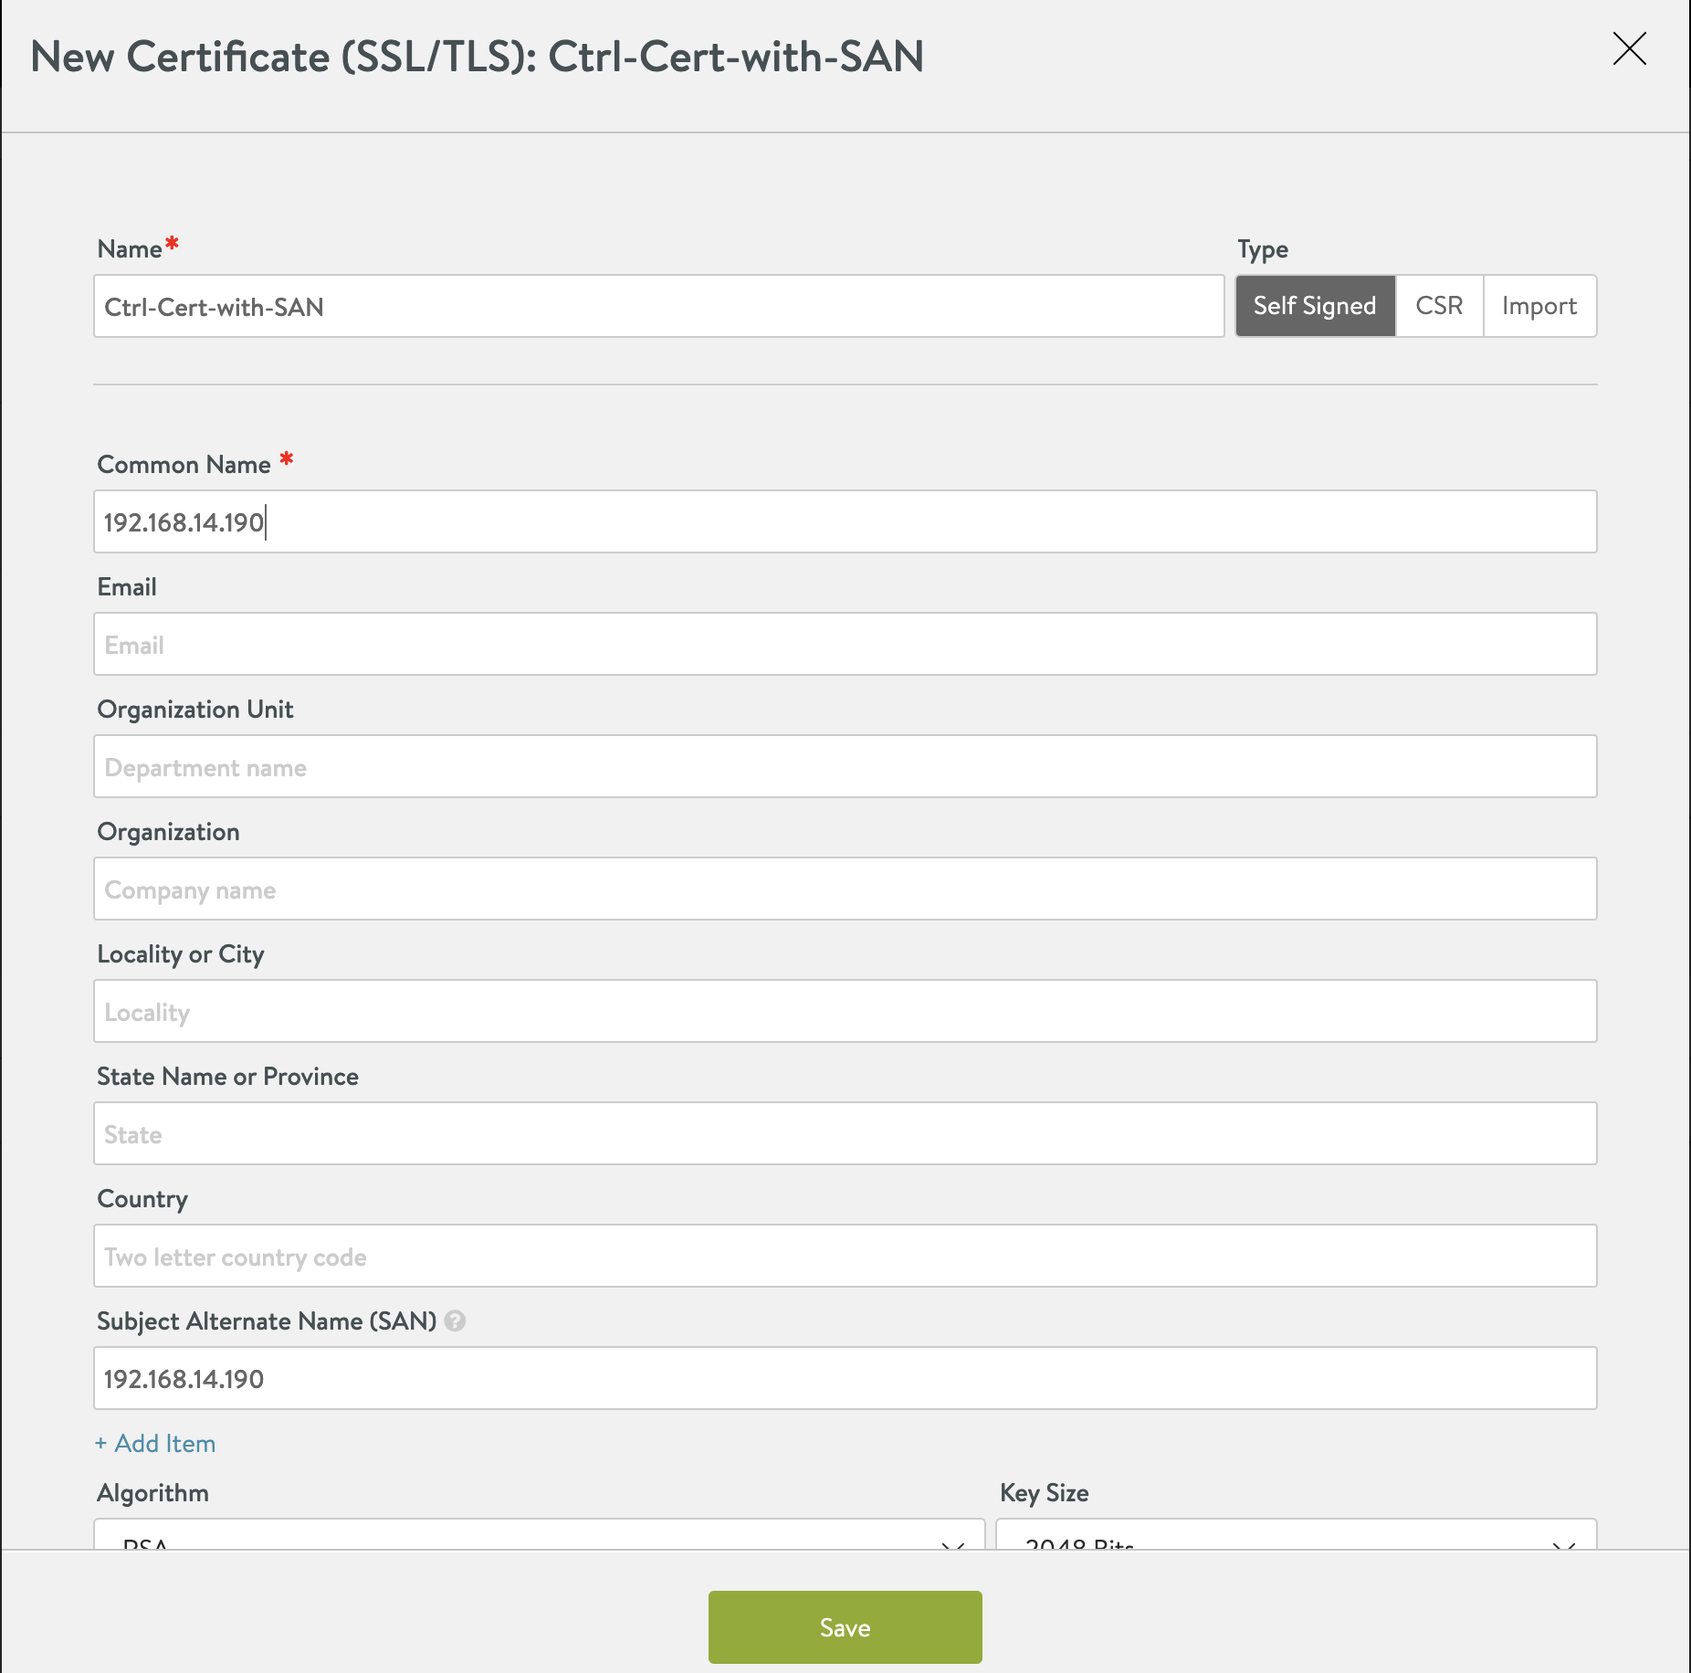
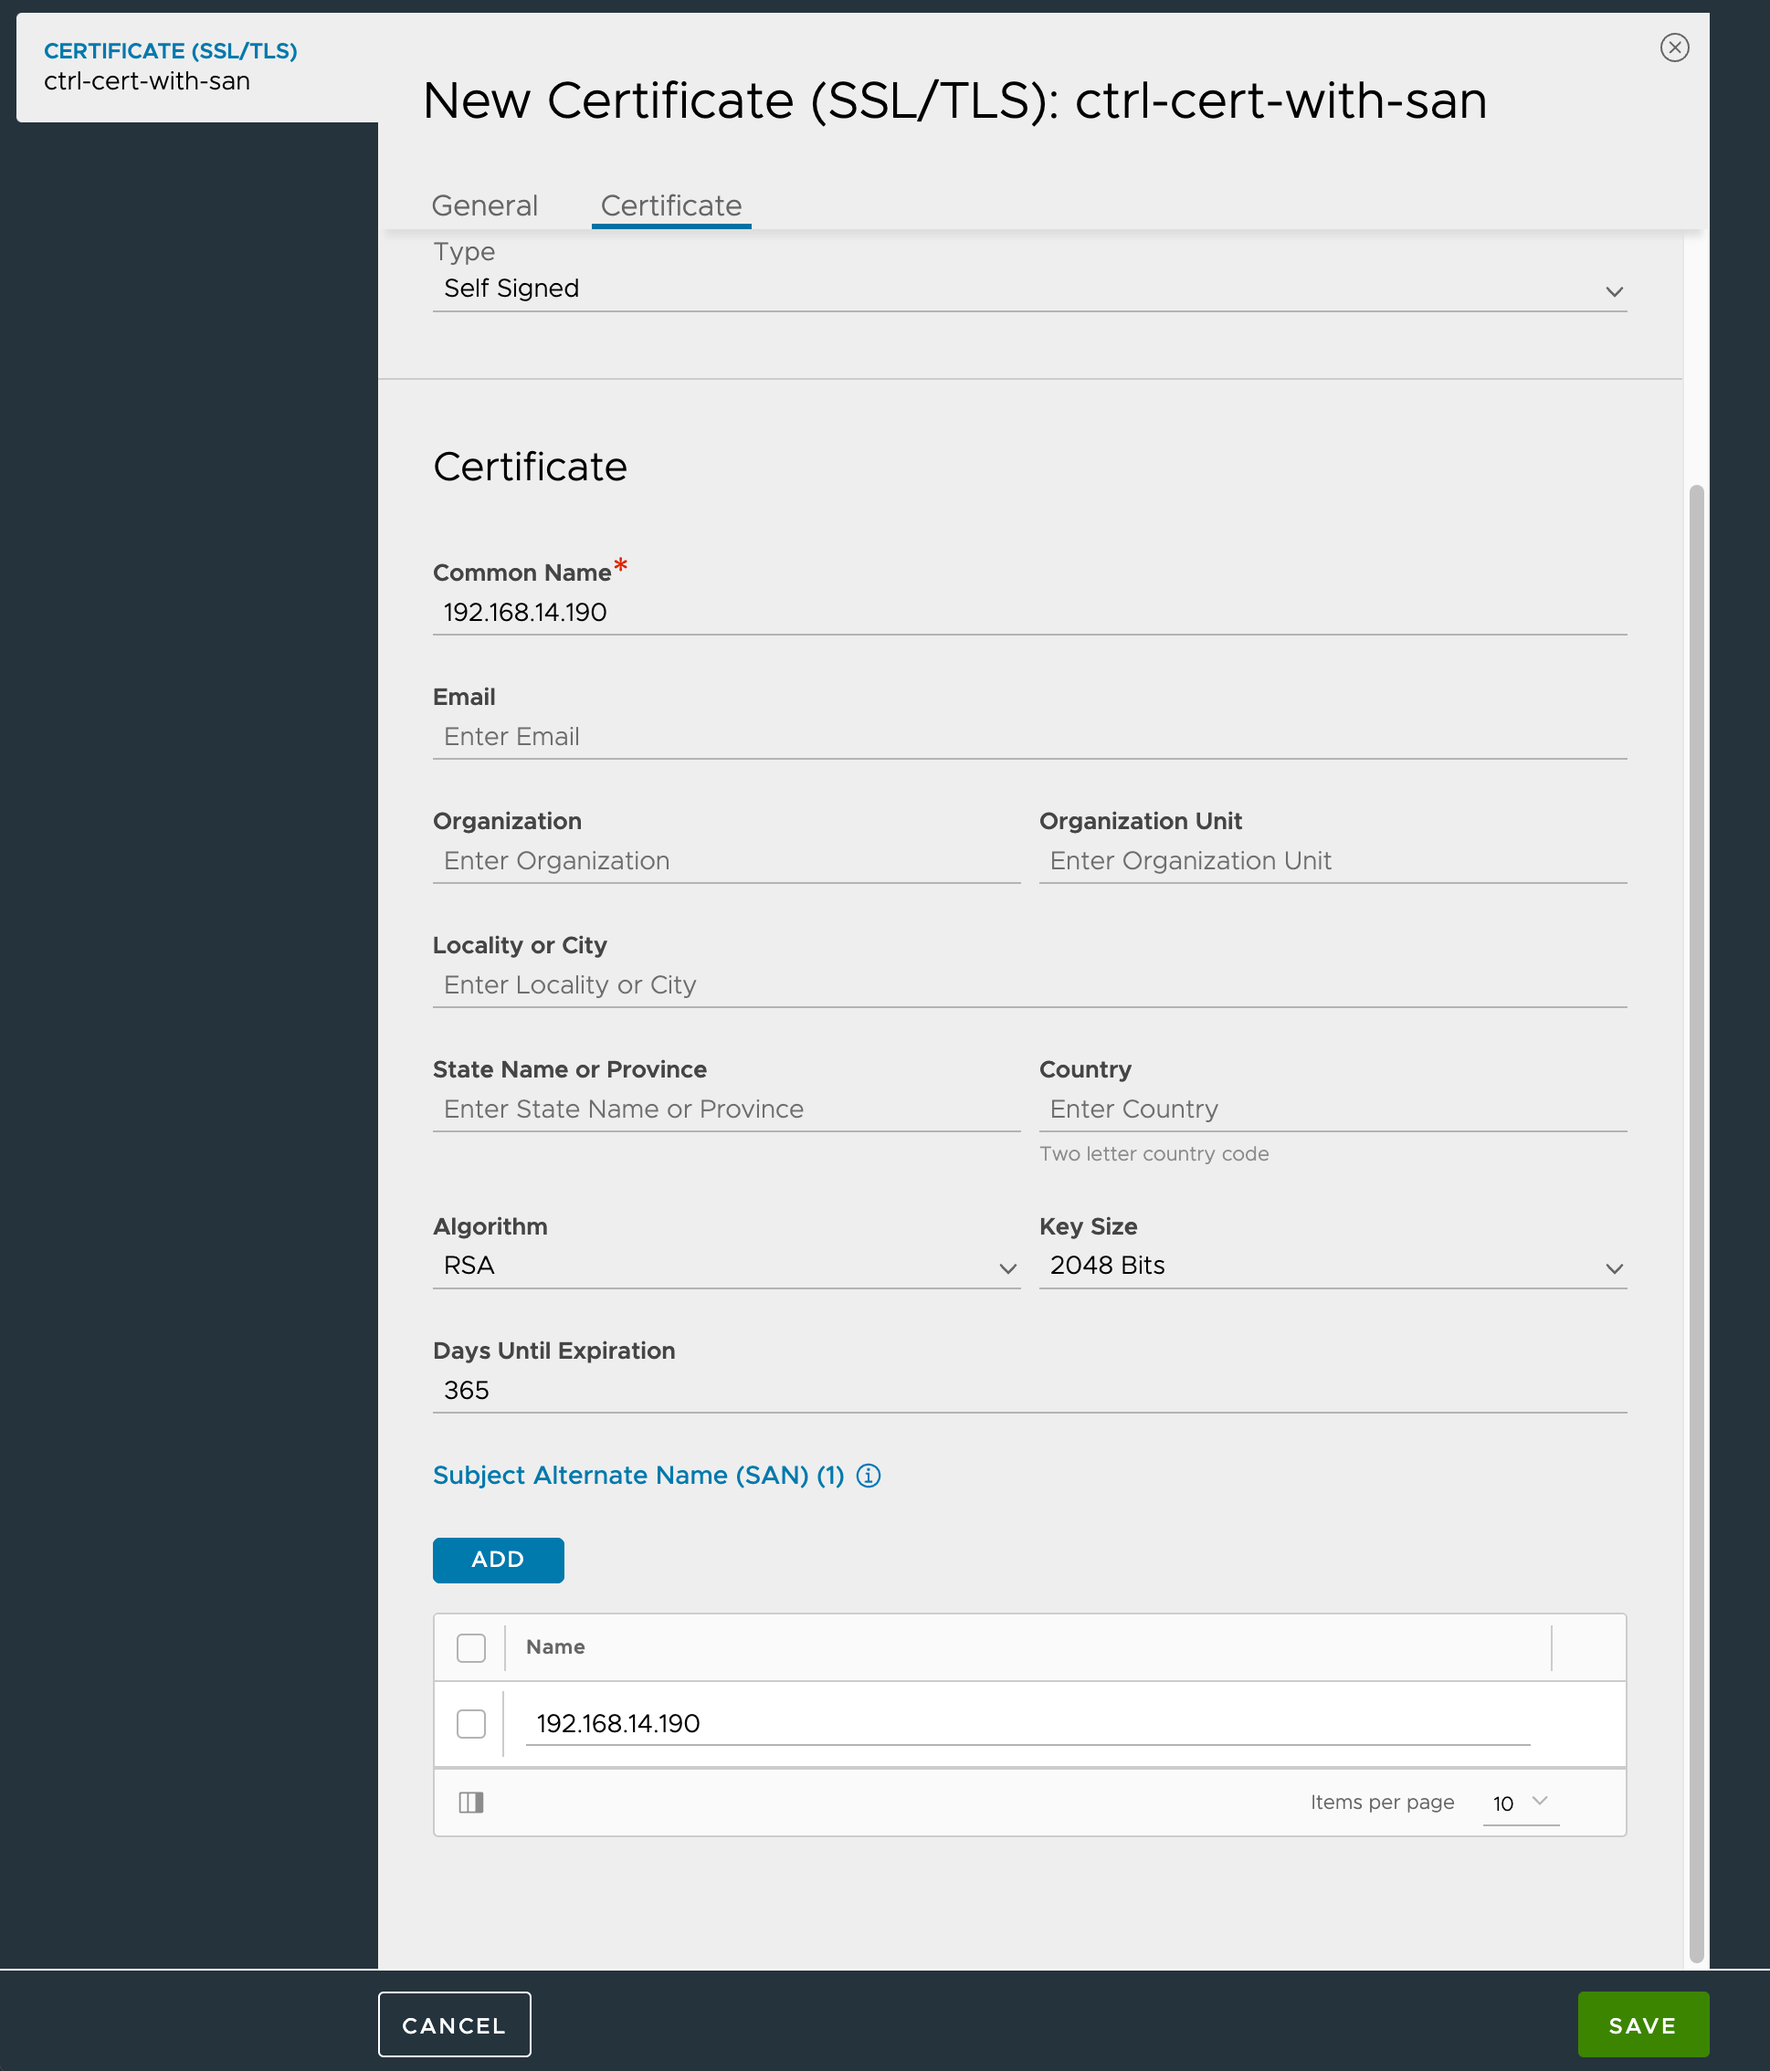
Updates docs for AVI 22.1.4

diff --git a/docs/avi/setup_avi_ctrl.md b/docs/avi/setup_avi_ctrl.md
@@ -1,13 +1,13 @@
 # NSX-ALB (AVI) Controller Setup
 
-This guide includes a comprehensive set of steps to set up a NSX-ALB (AVI) Controller in a vSphere 6.7 or 7 environment to be used by TKG `v1.5.0+`
+This guide includes a comprehensive set of steps to set up a NSX-ALB (AVI) Controller in a vSphere 6.7 or 7 environment to be used by TKG `v1.6.0+`
 
 ## 1. Get Binaries
 
 To download the Controller binaries we can go to the same location where we download the rest of the TKG components [here](https://www.vmware.com/go/get-tkg).
 Look for `VMware NSX Advanced Load Balancer`, `GO TO DOWNLOADS` and `DOWNLOAD NOW`.
 That will take you to the Partner Connect Portal.  If don't already have an active session, you will need to log-in.
-You will be redirected to the AVI Portal. Once there go to Downloads and download current version (`20.1.7` when this guide was updated last). Choose the VMware Controller OVA.
+You will be redirected to the AVI Portal. Once there go to Downloads and download current TKG-validated controller (`21.1.4-2p3` when this guide was updated last). Choose the VMware Controller OVA.  Also download the latest patch for that controller version (`21.1.4-2p7` when this guide was updated last).
 
 ## 2. Choose Topology
 
@@ -83,7 +83,7 @@ Choose the admin username and password. Email is optional.
 
 <img src="avi-admin-user.png" width="400"><br>
 
-Choose the right DNS resolver.  Choose Search Domain (optional, if you do not use FQDN references for internal components) for your environment. Also choose a passphrase for the backups.
+Provide Passphrase for backups.  Choose the right DNS resolver for your environment.  Choose Search Domain (optional, if you do not use FQDN references for internal components) for your environment.
 
 <img src="avi-dns.png" width="800"><br>
 
@@ -95,24 +95,32 @@ In the Multi-Tenant screen leave all the defaults:
 
 <img src="avi-tenant.png" width="800"><br>
 
-Check the `Select Cloud After` checkbox at the bottom-right of the screen. Click `Save`.
+Check the `Setup Cloud After` checkbox at the bottom-right of the screen. Click `Save`.
 
+You should be taken to the `Infrastructure > Clouds` list page.  If you see an error message indicating `Controller Faults` related to licensing, you can `x` out of the message safely for now.  We will take care of that later on.
 
-### 4.2 Orchestrator setup
-If you did not check the checkbox in the previous screen go to `Infrastructure > Clouds`. Then edit the `Default-Cloud`:
+### 4.2 Cloud setup
 
-Choose Orchestrator
-- Select VMware.
+>Note: For some reason if you got lost, then go to `Infrastructure > Clouds`.
 
-<img src="avi-orchestrator.png" width="800"><br>
+Now choose the `Convert Cloud Type` icon on the `Default-Cloud` item in the list.
+
+Choose Cloud Type
+- Select `VMware vCenter/vSphere ESX` and then `YES, CONTINUE` button
+
+<img src="avi-cloud-type.png" width="800"><br>
 
 Provide vCenter Credentials
 - Enter vSphere FQDN and credentials.
 - Select Write permissions.
 
+Click Next button.
+
 <img src="avi-vc.png" width="800"><br>
 
 Choose Datacenter. You can leave all checkboxes unchecked for Static IP Address management and default settings.
+
+Click Next button.
 
 <img src="avi-datacenter.png" width="800"><br>
 
@@ -131,11 +139,11 @@ Click `Save`.
 
 ### 4.3 Set Scope for Service Engines to Specific vSphere Clusters
 
-The NSX ALB Controller will create service engines on vSphere clusters for which it has permissions.  In the event you are using an administrative vSphere user account with multiple clustesr, that means these service engines could be created anywhere and perhaps different SEs in a single SE Group will be created in different clusters.  
+The NSX ALB Controller will create service engines on vSphere clusters for which it has permissions.  In the event you are using an administrative vSphere user account with multiple clusters, that means these service engines could be created anywhere and perhaps different SEs in a single SE Group will be created in different clusters.  
 
 You can set the scope for a given SE Group to constrain the SE creation to specific clusters or hosts.  This may particularly be useful if a single vSphere cluster is designated to support Tanzu.
 
-Go to `Infrastructure > Service Engine Group`. Then edit the `Default-Cloud`:
+Go to `Infrastructure > Cloud Resources > Service Engine Group`. Then edit the `Default-Cloud`.
 
 Choose `Advanced` tab of the resulting dialog.
 
@@ -145,11 +153,10 @@ In the `Host & Data Store Scope` section, select your desired vSphere cluster.
 
 Click `Save`.
 
-
 ### 4.4 Upgrade Controller to latest patch (Optional)
-To get the latest UI based capabilities is best to upgrade to the latest patch of the release you are using: (`20.1.7-2p8` when this guide was updated last).
+To get the latest UI based capabilities is best to upgrade to the latest patch of the release you are using: (`21.1.4-2p7` when this guide was updated last).
 
-Go to `Administration > Controller > Software`. Click on `Upload from Computer` and select the avi-patch `pkg` file.
+Go to `Administration > Controller > Software`. Click on `Upload from Computer` and select the avi-patch `pkg` file.  Wait until the pkg has completed uploading.
 
 <img src="avi-software.png" width="800"><br>
 
@@ -157,14 +164,14 @@ Go to `Administration > Controller > System Update`. Click on the checkbox next 
 
 <img src="avi-systemupdate.png" width="800"><br>
 
-On the pop-up window, leave settings as they are and click `Continue`. Wait for the upgrade to finish. The UI will eventually become inresponsive and you will have to log-in again.
+On the pop-up window, leave settings as they are and click `Continue`. You will be prompted to take a backup.  Click `Confirm` button to continue without backup. You will be taken back to the original page and then a progress bar will display.  Wait for the upgrade to finish. The UI will eventually become inresponsive.  You may get an error message, which you can safely click through.  You will have to log-in again.
 
 ### 4.5 Switch to Essentials Tier (Optional)
-Go to `Administration > Settings > Licensing`. Click on the crank wheel next to the `Licensing` title. Select `Essentials License`. Click `Save`. Click `Continue`.
+Go to `Administration > Settings > Licensing`. Click on the crank wheel next to the `Licensing` title. Select `Essentials License`. Click `Save`. Click `x` at top right corner.  Then Click `Continue`.
 
 <img src="avi-essentials.png" width="800"><br>
 
-In Essentials Tier we don't have `auto-gateway` so we need to create a Default Gateway route to ensure traffic can flow from SEs to pods and back to the clients. Go to `Infrastructure > Routing` and create a `Static Route`, with:
+In Essentials Tier we don't have `auto-gateway` so we need to create a Default Gateway route to ensure traffic can flow from SEs to pods and back to the clients. Go to `Infrastructure > Cloud Resources > Routing` and create a `Static Route`, with:
 - Gateway Subnet: `0.0.0.0/0`
 - Next Hop: The Gateway of the VIP Network you are going to use
 
@@ -199,7 +206,7 @@ Click `Save`.
 
 
 ### 4.9. Create VIP Pool (Only for 2 network configuration, skip for flat network)
-Go to `Infrastructure > Networks` and Edit the network you chose in the `IPAM Profile` configuration.
+Go to `Infrastructure > Cloud Resources > Networks` and Edit the network you chose in the `IPAM Profile` configuration.
 
 Click on `Add subnet`:
 - Enter the CIDR of the Data Network to be used for the VIPs in the `IP Subnet` field.
@@ -225,13 +232,7 @@ In the pop-up form, insert the following information:
 <img src="avi-create-cert.png" width="800"><br>
 - Click `Save`.
 
-Go to `Administration > Settings > Access Settings` and edit `System Access Settings` by clicking on the pencil icon on the right side:
-- Delete all certificates in the `SSL/TLS Certificate` field, add the custom certificate you created above:
-<img src="avi-config-new-cert.png" width="800"><br>
-- Click `Save`.
-- Reload the page since the Controller cert has changed.
-
-Go to `Templates > Security > SSL/TLS Certificates` and export the certificate you created by clicking on the export icon on the right side:
+Export the certificate you created by clicking on the export icon on the right side:
 
 <img src="avi-export-cert.png" width="800"><br>
 
@@ -253,11 +254,19 @@ export NSX_ALB_CONTROLLER_ENCODED_CERT=`cat keys/nsx-alb-controller.cert | base6
 yq e -i '.avi.avi-ca-data = env(NSX_ALB_CONTROLLER_ENCODED_CERT)' $PARAMS_YAML
 ```
 
+Configure the controller to use the new certficate.
+
+Go to `Administration > Settings > Access Settings` and edit `System Access Settings` by clicking on the pencil icon on the right side:
+- Delete all certificates in the `SSL/TLS Certificate` field, add the custom certificate you created above:
+<img src="avi-config-new-cert.png" width="800"><br>
+- Click `Save`.
+- Reload the page since the Controller cert has changed.
+
 ### 4.11. Extend UI Session Timeout (Optional)
 
 The NSX ALB Controller UI has a 15 minute session timeout.  This may be too quick for efficent activity for POCs.  You can extend the UI session timeout as a user preference.
 
-Click the `AVI` icon in the top right corner of the NSX ALB Controller UI and choose `My Account`.
+Click the person icon in the top right corner of the NSX ALB Controller UI and choose `My Account`.
 
 Set your desired session timeout in the `Controller Settings` section of the `Edit My Account` dialog.
 
